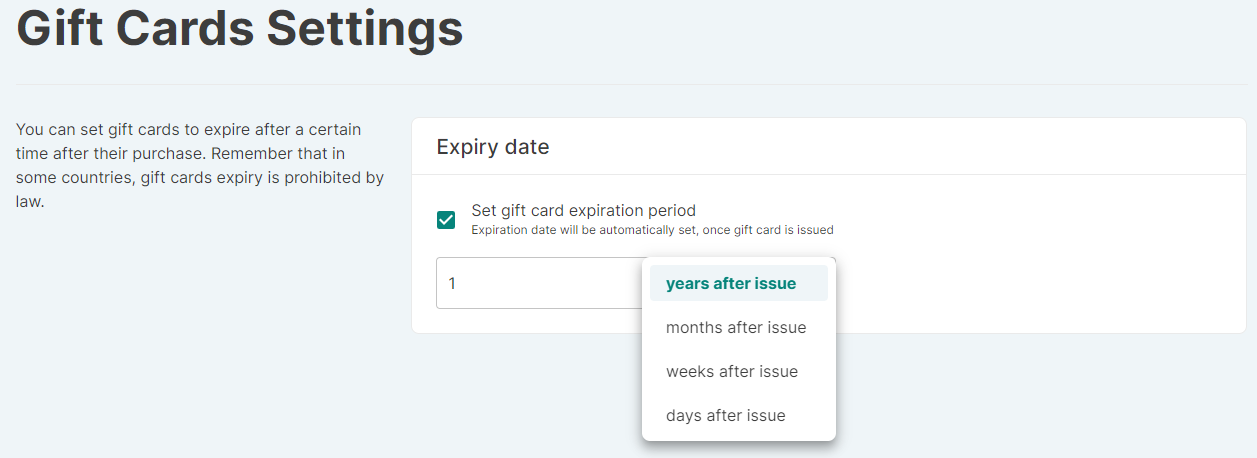
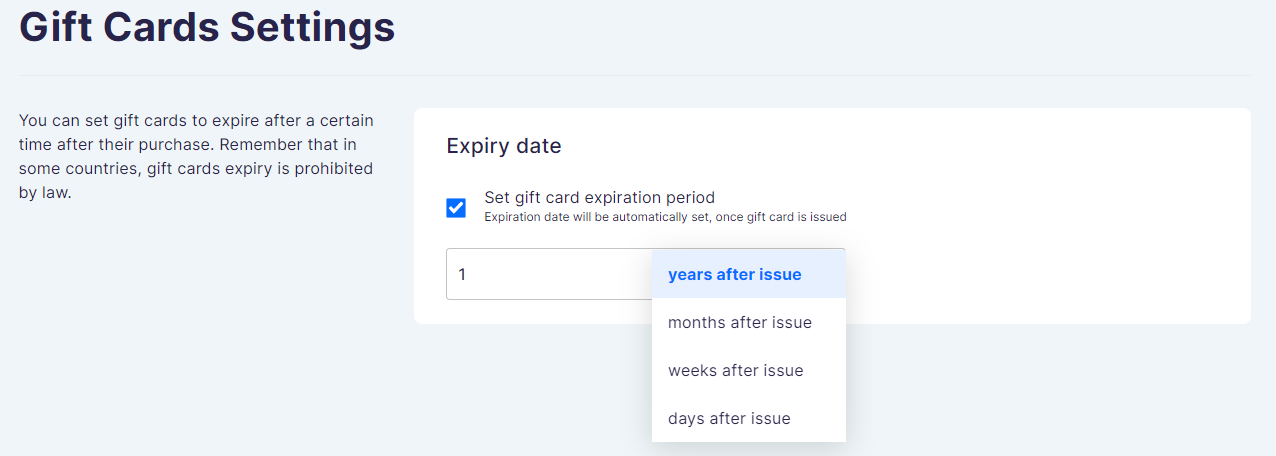
Add export, bulk features, new screenshots

diff --git a/docs/dashboard/catalog/gift-cards.md b/docs/dashboard/catalog/gift-cards.md
@@ -3,7 +3,7 @@ title: Gift Cards
 ---
 
 :::note
-Gift Cards are available in Saleor 3.1 (alpha stage). For production purposes, we recommend using the latest beta version of Saleor 3.0.
+Gift cards are available in Saleor 3.1.
 :::
 
 This page contains information on how to manage gift cards by selecting a specific currency, sending them to customers, or setting expiring dates.
@@ -12,7 +12,7 @@ This page contains information on how to manage gift cards by selecting a specif
 Gift cards are timeless and universal gifts. They are suitable for customers, employees, CEOs, business partners, or family members. Issuing gift cards can increase your sales and provide a better customer experience.
 
 ## How to
-### How to create a gift card?
+### How to create gift cards?
 Once you have created a product type that can be used as a gift card or voucher, you can issue a gift card. Go to the Gift Card page of the Catalog section. 
 
 ![Gift cards](../screenshots/catalog-giftcards-main.png)
@@ -23,7 +23,7 @@ Then click the Issue Card button on the top right corner of the page. A pop-up p
 
 - Enter the amount  
 
-- Send gift cards to customers  
+- Send gift cards to customer  
 
 - Set expiry date  
 
@@ -33,21 +33,46 @@ Then click the Issue Card button on the top right corner of the page. A pop-up p
 
 ![Gift cards](../screenshots/catalog-giftcards-new.png)
 
-Once a gift card has been created you can manage its balance on the top of the gift card details page. You can also add a card tag (optional) and set an expiration date.  
+You can also create multiple gift cards at the same time by clicking the three dots button on the top right corner of the page, near the Issue Card button. Then click the *Bulk Issue* button.
 
-On the right side of the gift card details page, you can find basic information about the gift card such as the creation date.
+![Gift cards-bulk issue](../screenshots/catalog-giftcards-bulk-issue.png)
 
-### How to set an automatic expiration for gift cards
-Click the three dots button on the top right corner of the page, near the Issue Card button. Click *Settings* and then you can set gift cards to expire after a certain time after their purchase. Remember that in some countries, gift cards expiry is prohibited by law.
+Once a gift card has been created you can manage its balance on the top of the gift card details page. You can also add multiple tags (optional) and set an expiration date.  
 
-![Gift cards](../screenshots/catalog-giftcards-expiration.png)
+On the right side of the gift card details page, you can deactivate a gift card, resend a code, and find basic information about the gift card such as:
+
+- Creation date
+
+- Link to order number to which gift card has been used
+
+- Product bought to receive gift card
+
+- User who issued a gift card
+
+- Customer who used a gift card
+
+![Gift cards-details view](../screenshots/catalog-giftcards-details-view.png)
 
 ### How to manage metadata in the gift card details page
 Once a gift card has been created you can add private and public metadata for each gift card in the gift card details page. Use the button Add Field to add a new metadata field.
 
 ![Gift cards](../screenshots/catalog-giftcards-metadata.png)
 
-### How to deactive a gift card
-Select a specific previously created gift card from the gift cards list and then click *deactivate*. 
+### How to activate, deactive or remove gift cards
+Select a single or multiple previously created gift cards from the gift cards list and then click *activate*, *deactivate* or remove by clicking on the trash bin icon.
 
 ![Gift cards](../screenshots/catalog-giftcards-deactivate.png)
+
+### How to set an automatic expiration for gift cards
+Click the three dots button on the top right corner of the page, near the Issue Card button. Click *Settings* and then you can set gift cards to expire after a certain time after their purchase. Remember that in some countries, gift cards expiry is prohibited by law.
+
+![Gift cards](../screenshots/catalog-giftcards-expiration.png)
+
+### How to export gift card codes
+Click the three dots button on the top right corner of the page, near the Issue Card button. Click *Export card codes* to export information for specific, or all, gift cards as a spreadsheet or a CSV file.
+
+:::note
+Only active or non used cards can be exported.
+:::
+
+![Gift cards](../screenshots/catalog-giftcards-export.png)
